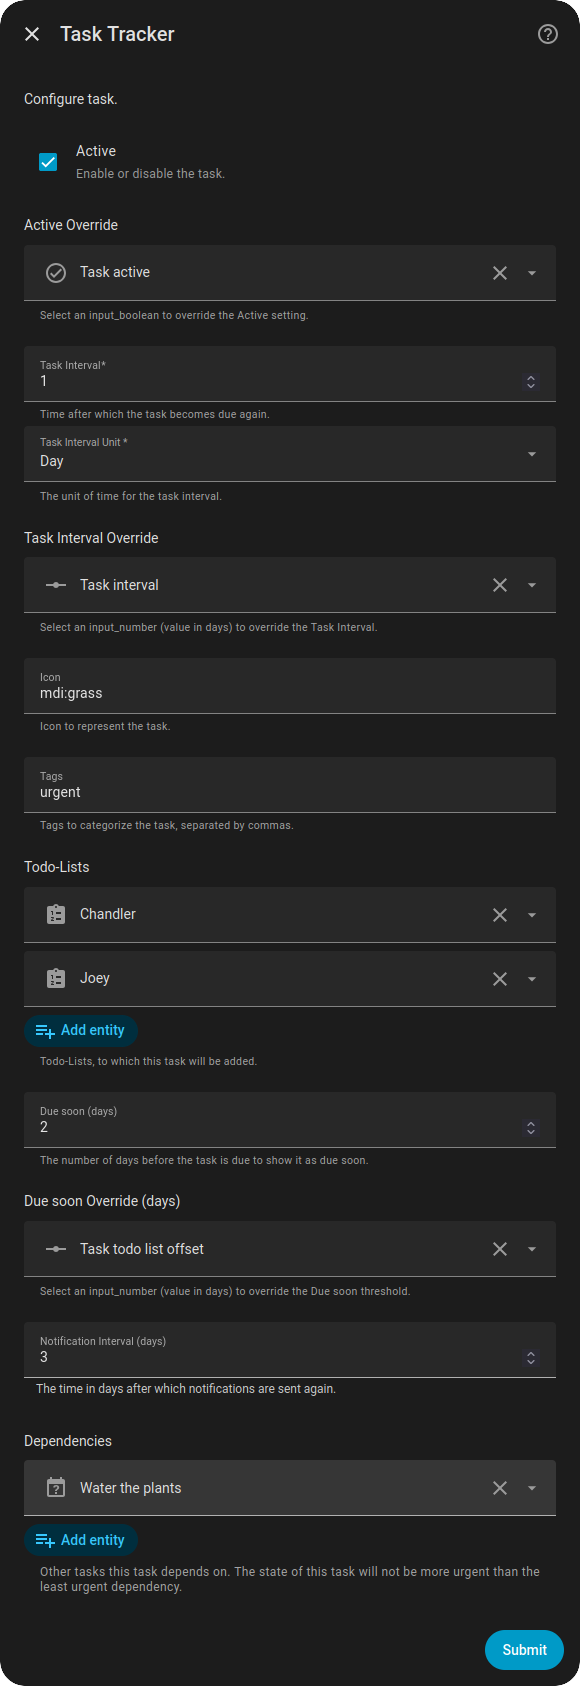
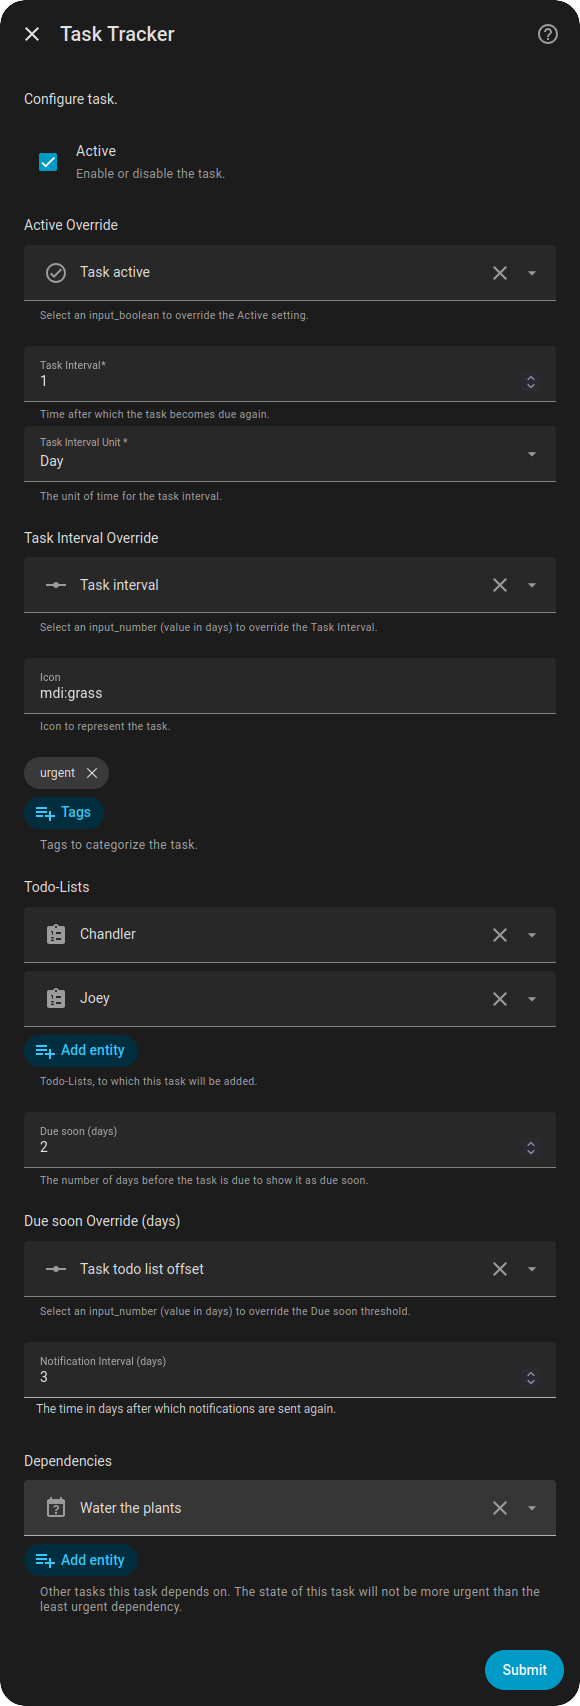
Updated README.md

diff --git a/README.md b/README.md
@@ -76,14 +76,14 @@ Task Tracker supports two repeat modes, selected during task creation.
 
 ### Repeat after completion
 
-The next due date is calculated **relative to when the task was last completed**. For example, if a task has a 7-day interval and you complete it on a Wednesday, the next due date will be the following Wednesday — regardless of the original schedule.
+The next due date is calculated **relative to when the task was last completed**. For example, if a task has a 7-day interval, and you complete it on a Wednesday, the next due date will be the following Wednesday — regardless of the original schedule.
 
 **Schedule configuration:** Choose a numeric interval and a unit (Day / Week / Month / Year).
 
-| Field | Description |
-|-------|-------------|
-| **Task Interval** | How many units between completions |
-| **Task Interval Unit** | Day, Week, Month, or Year |
+| Field                  | Description                        |
+|------------------------|------------------------------------|
+| **Task Interval**      | How many units between completions |
+| **Task Interval Unit** | Day, Week, Month, or Year          |
 
 ### Repeat every (fixed schedule)
 
@@ -91,14 +91,14 @@ The task repeats on a **fixed calendar schedule**, independent of when it was co
 
 **Schedule types:**
 
-| Schedule Type | Description | Example |
-|---------------|-------------|---------|
-| **Every Nth weekday** | Every *N* weeks on a chosen day of the week | Every week on Monday; Every 2 weeks on Friday |
-| **Every Nth day of the month** | A fixed day number every *N* months | Every 15th of the month; Every 15th every 3 months (quarterly) |
-| **Every Nth weekday of the month** | A specific occurrence of a weekday every *N* months | Every 2nd Tuesday; Every last Friday every 6 months |
-| **N days before month end** | A fixed number of days before the last day of the month, every *N* months | 3 days before month end; 0 days before month end every 12 months (last day of month, annually) |
+| Schedule Type                      | Description                                                               | Example                                                                                        |
+|------------------------------------|---------------------------------------------------------------------------|------------------------------------------------------------------------------------------------|
+| **Every Nth weekday**              | Every *N* weeks on a chosen day of the week                               | Every week on Monday; Every 2 weeks on Friday                                                  |
+| **Every Nth day of the month**     | A fixed day number every *N* months                                       | Every 15th of the month; Every 15th every 3 months (quarterly)                                 |
+| **Every Nth weekday of the month** | A specific occurrence of a weekday every *N* months                       | Every 2nd Tuesday; Every last Friday every 6 months                                            |
+| **N days before month end**        | A fixed number of days before the last day of the month, every *N* months | 3 days before month end; 0 days before month end every 12 months (last day of month, annually) |
 
-#### Mark as done behaviour for fixed schedules
+#### Mark as done behavior for fixed schedules
 
 - When a task is **due** (or overdue): marking it done records the most recent past occurrence as the completion date.
 - When a task is **due soon**: marking it done records the next upcoming occurrence, so no occurrence is accidentally skipped.
@@ -144,25 +144,25 @@ Access task settings through the cog icon ⚙ on the integration page.
 
 **Options specific to *Repeat Every Nth Day of the Month*:**
 
-| Option               | Description                                               |
-|----------------------|-----------------------------------------------------------|
-| **Day Of Month**     | Modify the day number                                     |
-| **Every (months)**   | Modify the month interval (1 = every month, 3 = quarterly, 12 = annually) |
+| Option             | Description                                                               |
+|--------------------|---------------------------------------------------------------------------|
+| **Day Of Month**   | Modify the day number                                                     |
+| **Every (months)** | Modify the month interval (1 = every month, 3 = quarterly, 12 = annually) |
 
 **Options specific to *Repeat Every Nth weekday of the month*:**
 
-| Option             | Description                                                   |
-|--------------------|---------------------------------------------------------------|
-| **Weekday**        | Modify the weekday                                            |
-| **Occurrence**     | Modify the occurrence of the weekday                          |
+| Option             | Description                                                               |
+|--------------------|---------------------------------------------------------------------------|
+| **Weekday**        | Modify the weekday                                                        |
+| **Occurrence**     | Modify the occurrence of the weekday                                      |
 | **Every (months)** | Modify the month interval (1 = every month, 3 = quarterly, 12 = annually) |
 
 **Options specific to *Repeat Every N Days Before the End of the Month*:**
 
-| Option                    | Description                                                                 |
-|---------------------------|-----------------------------------------------------------------------------|
-| **Days Before Month end** | Modify the number of days before the month's end                            |
-| **Every (months)**        | Modify the month interval (1 = every month, 3 = quarterly, 12 = annually)  |
+| Option                    | Description                                                               |
+|---------------------------|---------------------------------------------------------------------------|
+| **Days Before Month end** | Modify the number of days before the month's end                          |
+| **Every (months)**        | Modify the month interval (1 = every month, 3 = quarterly, 12 = annually) |
 
 #### Due dependencies
 
@@ -175,7 +175,7 @@ Use **Dependencies** to make a task wait on other Task Tracker tasks:
 
 > **Note:** Tags and notification intervals require you to implement filtering logic in your own automations.
 >
-> **Override fields:** When an override helper is selected, its current value takes precedence over the configured option. If the helper is `unavailable` or `unknown`, the configured value is used as a fallback. Override values react to helper state changes in real time, allowing non-admin users to adjust task behaviour through dashboard tiles or scripts without needing access to integration settings.
+> **Override fields:** When an override helper is selected, its current value takes precedence over the configured option. If the helper is `unavailable` or `unknown`, the configured value is used as a fallback. Override values react to helper state changes in real time, allowing non-admin users to adjust task behavior through dashboard tiles or scripts without needing access to integration settings.
 
 ---
 
@@ -195,14 +195,15 @@ The card shows the schedule in a human-readable form that reflects the repeat mo
 
 #### Optional display fields
 
-By default the card shows only the core task data (schedule, last done, due date, days until/overdue).
+By default, the card shows only the core task data (schedule, last done, due date, days until/overdue).
 You can opt in to additional fields with the following config options (all default to `false`):
 
-| Option         | Description                                          |
-|----------------|------------------------------------------------------|
-| `show_area`    | Show the HA area the task device/entity belongs to   |
-| `show_tags`    | Show the tags configured for the task                |
-| `show_labels`  | Show the HA labels assigned to the task entity       |
+| Option                 | Description                                          |
+|------------------------|------------------------------------------------------|
+| `show_area`            | Show the HA area the task device/entity belongs to   |
+| `show_tags`            | Show the tags configured for the task                |
+| `show_labels`          | Show the HA labels assigned to the task entity       |
+| `show_times_completed` | Show the number of times the task has been completed |
 
 Example:
 
@@ -212,6 +213,7 @@ entity: sensor.task_tracker_mow_the_lawn
 show_area: true
 show_tags: true
 show_labels: true
+show_times_completed: true
 ```
 
 #### Card States
@@ -237,17 +239,17 @@ A **Task Tracker** entry is automatically added to your Home Assistant sidebar w
 
 The panel shows all tasks in one place with live state filtering:
 
-| Filter | Shows |
-|--------|-------|
-| **All** | Every task |
-| **Due** | Tasks that are due or overdue |
+| Filter       | Shows                                                           |
+|--------------|-----------------------------------------------------------------|
+| **All**      | Every task                                                      |
+| **Due**      | Tasks that are due or overdue                                   |
 | **Due soon** | Tasks that will be due within the configured Due Soon threshold |
-| **Done** | Tasks completed within their current interval |
-| **Inactive** | Tasks with the *Active* option turned off |
+| **Done**     | Tasks completed within their current interval                   |
+| **Inactive** | Tasks with the *Active* option turned off                       |
 
 Each task card displays the same information as the Lovelace card (status, schedule, last done date, due date, days until due / overdue by) and includes a ✓ button to mark the task as done immediately.
 
-Use the **Show** toggle buttons in the panel toolbar to optionally display each task's **Area**, **Tags**, and **Labels** alongside the core information.
+Use the **Show** toggle buttons in the panel toolbar to optionally display each task's **Area**, **Tags**, **Labels** and **Times Completed** alongside the core information.
 
 #### Disabling the sidebar panel
 
@@ -268,7 +270,7 @@ Task Tracker seamlessly integrates with Home Assistant's Local Todo lists:
 
 - **Auto-Add**:  Tasks appear `n` days before due (based on the Due Soon setting)
 - **Auto-Remove**: Completed tasks are removed from todo lists
-- **Bi-directional Sync**:  Completing a todo item marks the task done after 5 seconds (grace period for accidental clicks)
+- **Bidirectional Sync**:  Completing a todo item marks the task done after 5 seconds (grace period for accidental clicks)
 - **Smart Filtering**:  Inactive tasks won't be added to todo lists
 
 ---
@@ -315,6 +317,10 @@ data:
 > **Note:** After setting the last done date, the task's next due date will be automatically recalculated based on your configured interval.
 
 ---
+
+### 🗺 Blueprint for automations
+
+A blueprint is automatically registered for Task Tracker. Just create a new automation and select the **Task Tracker** blueprint to get started.
 
 ### 🤖 Example Automation
 
